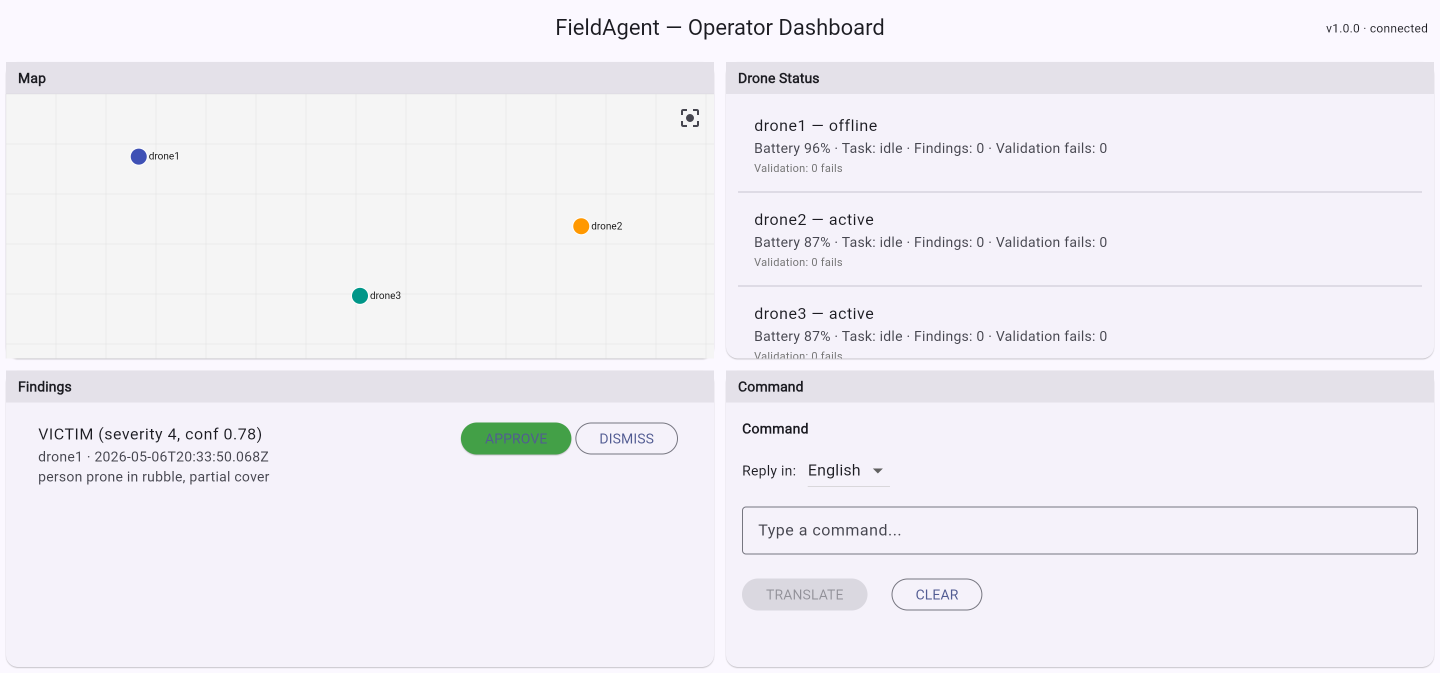
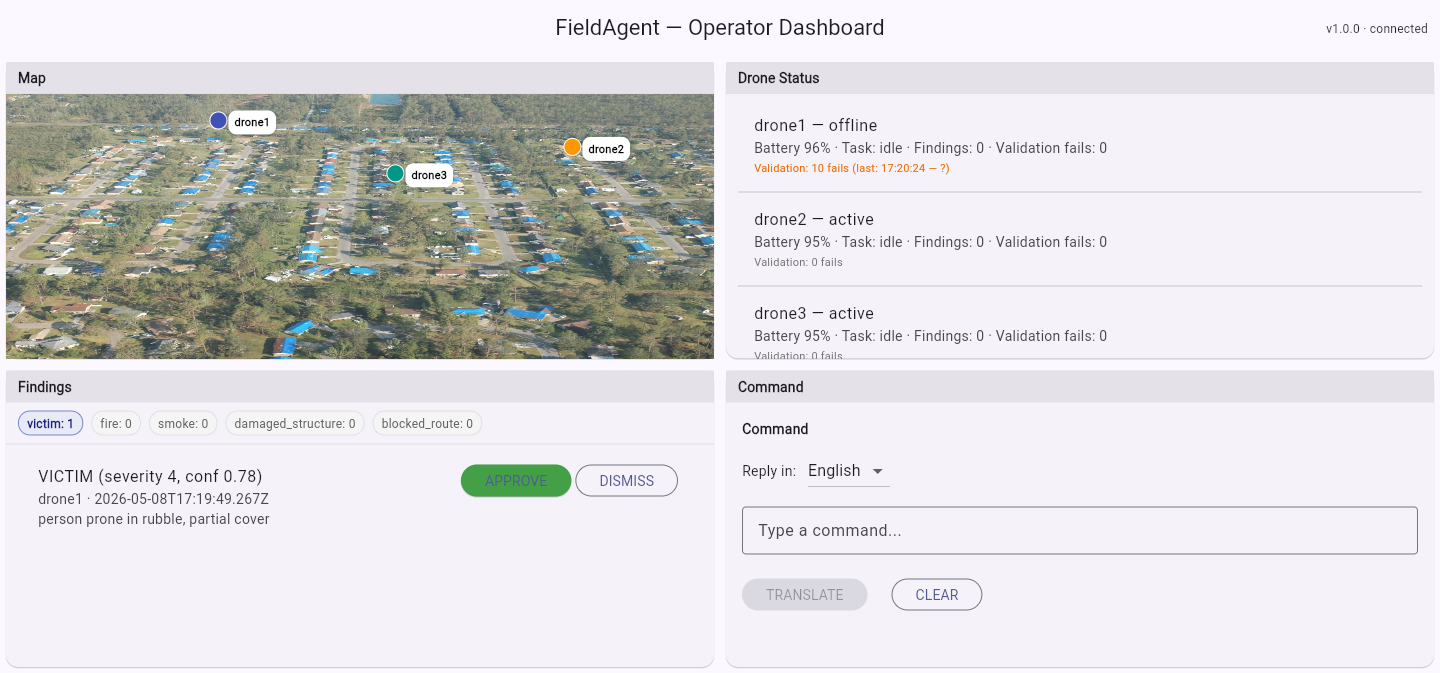
docs(assets): re-capture demo screenshots with aerial overlay (PR #36 follow-up)
Per docs/plans/2026-05-08-demo-recapture.md (eng-reviewed). All three
captures driven via Playwright MCP per the existing runbook and verified
with the new programmatic PIL stddev guard.

- dashboard-egs-severed.png: 1440x673, max stddev 45.5 (was 2880x1800
  retina drift; standardized to match the trio).
- dashboard-egs-state-counts.png: 1440x673, max stddev 38.3.
- dashboard-finding-rendered.png: 1440x673, max stddev 41.6 — three
  drone markers visible on aerial with white-pill ID labels, victim
  finding tile rendered with severity 4 / conf 0.78.

scripts/verify_demo_screenshot.py is the eng-review-prescribed guard
against silent grid-only fallback (map_panel's errorBuilder fires on
aerial 404, indistinguishable from eyeball). Default region calibrated
to the LEFT-side map panel of the 1440x673 layout; default threshold 28
sits ~5pts below the with-aerial floor and well above the no-aerial
baseline.

diff --git a/scripts/verify_demo_screenshot.py b/scripts/verify_demo_screenshot.py
@@ -1,0 +1,129 @@
+"""Programmatic check that a captured dashboard PNG actually has the
+FEMA aerial rendered in the map panel (vs falling back to grid-only).
+
+Why this exists: the Flutter map_panel's Image.asset has an errorBuilder
+that falls back to a grid-only painter when the aerial 404s. To a human
+eyeballing a thumbnail, that fallback is indistinguishable from "aerial
+loaded but is dark imagery." Captures that committed silently-broken
+PNGs to docs_assets/ would survive eyeball QA. So we crop the map
+region and check pixel variance — the aerial is photographic (high
+stddev across channels), the grid fallback is near-uniform dark.
+
+Usage:
+  uv run python scripts/verify_demo_screenshot.py \\
+    --png docs_assets/dashboard-finding-rendered.png \\
+    --map-region 760,80,660,480 \\
+    --min-stddev 28
+
+Exit 0 = aerial pixels look photographic.
+Exit 1 = looks like grid-only fallback (or threshold not met).
+
+Calibration (measured 2026-05-08 on the 1440x673 dashboard layout, with
+the map panel on the LEFT side at roughly x=20..710, y=70..370):
+- FEMA aerial standalone: stddev ~42-48 per channel.
+- Real captures with aerial rendered at 0.80 opacity (region 30,100,650,260):
+  Beat 4 severed: stddev 39-46 / Beat 3 counts: stddev 33-38.
+- Default --min-stddev 28 sits below the with-aerial floor by ~5pts and
+  well above the expected no-aerial baseline (~12-20 at this region);
+  if a real capture lands below 28, that is signal the aerial didn't load.
+If the layout changes, re-measure on a known-good capture and adjust
+both --map-region and --min-stddev.
+"""
+from __future__ import annotations
+
+import argparse
+import sys
+from pathlib import Path
+
+from PIL import Image, ImageStat
+
+
+def _parse_region(s: str) -> tuple[int, int, int, int]:
+    parts = s.split(",")
+    if len(parts) != 4:
+        raise argparse.ArgumentTypeError(
+            f"--map-region must be x,y,w,h (got {s!r})"
+        )
+    try:
+        x, y, w, h = (int(p.strip()) for p in parts)
+    except ValueError:
+        raise argparse.ArgumentTypeError(
+            f"--map-region values must be integers (got {s!r})"
+        )
+    if w <= 0 or h <= 0:
+        raise argparse.ArgumentTypeError(
+            f"--map-region width/height must be positive (got w={w}, h={h})"
+        )
+    return x, y, w, h
+
+
+def main() -> int:
+    parser = argparse.ArgumentParser(description=__doc__.split("\n\n")[0])
+    parser.add_argument("--png", type=Path, required=True, help="Path to captured dashboard PNG")
+    parser.add_argument(
+        "--map-region",
+        type=_parse_region,
+        default=(30, 100, 650, 260),
+        help="Crop box as x,y,w,h. Default: 30,100,650,260 — covers the "
+        "map panel area on the LEFT side of the 1440x673 dashboard. "
+        "(The dashboard layout has Map+Findings stacked on the left, "
+        "Drone Status+Command on the right — sampling the right side will "
+        "miss the aerial entirely.)",
+    )
+    parser.add_argument(
+        "--min-stddev",
+        type=float,
+        default=28.0,
+        help="Minimum per-channel stddev to count as photographic (default: 28.0; "
+        "see module docstring for calibration notes)",
+    )
+    args = parser.parse_args()
+
+    if not args.png.exists():
+        print(f"FAIL: {args.png} does not exist", file=sys.stderr)
+        return 2
+
+    with Image.open(args.png) as im:
+        # Map panel content lives in RGB. Some captures may be RGBA.
+        if im.mode not in ("RGB", "RGBA"):
+            im = im.convert("RGB")
+        x, y, w, h = args.map_region
+        if x + w > im.width or y + h > im.height:
+            print(
+                f"FAIL: --map-region {x},{y},{w},{h} extends past image "
+                f"bounds {im.width}x{im.height}",
+                file=sys.stderr,
+            )
+            return 2
+        crop = im.crop((x, y, x + w, y + h))
+        if crop.mode == "RGBA":
+            crop = crop.convert("RGB")
+        stats = ImageStat.Stat(crop)
+        # stats.stddev is per-channel: [R, G, B]
+        stddevs = stats.stddev
+
+    rounded = [round(s, 2) for s in stddevs]
+    max_stddev = max(stddevs)
+
+    print(f"png:        {args.png}")
+    print(f"region:     x={x} y={y} w={w} h={h}")
+    print(f"image dims: {im.width}x{im.height}")
+    print(f"stddev RGB: {rounded}  (max={round(max_stddev, 2)})")
+    print(f"threshold:  >= {args.min_stddev}")
+
+    if max_stddev < args.min_stddev:
+        print(
+            f"FAIL: max channel stddev {round(max_stddev, 2)} < {args.min_stddev}. "
+            f"Map region looks uniform — likely grid-only fallback (aerial 404'd or "
+            f"errorBuilder fired). Check Playwright console for asset errors before "
+            f"committing this PNG.",
+            file=sys.stderr,
+        )
+        return 1
+
+    print("OK: map region has photographic variance — aerial is rendered.")
+    return 0
+
+
+if __name__ == "__main__":
+    sys.exit(main())

diff --git a/docs/STATUS.md b/docs/STATUS.md
@@ -45,6 +45,8 @@ Living snapshot of where each person stands against the plan. Updated at standup
 
 **Done (Task 8 of fixtures-swap plan, 2026-05-08, PR #36):** Static aerial wired into `frontend/flutter_dashboard/lib/widgets/map_panel.dart` per locked design decisions D1/D2/D3. 3-layer Stack (procedural grid fallback ← `AnimatedOpacity` aerial overlay at 0.80 ← markers); bbox locks to `scenario.base_image_extents`; off-extents drones render as edge chevrons with tap-toast distance/cardinal; drone-id labels moved into white pills (a11y-discoverable); touch targets bumped to 48px (iOS minimum). Plumbing: `Scenario.base_image_path` + `BaseImageExtents` Pydantic types, `egs_state` schema gains optional `base_image_path` + `base_image_extents`, `MissionState.baseImagePath`/`baseImageExtents` getters, `_resolveAssetPath` translates the wire-format sim path to the Flutter asset bundle path at the rendering boundary, `scripts/sync_flutter_base_images.py` + lockdown tests for both `sim/fixtures/base_images/` provenance and sim↔Flutter byte equality. 32 new tests across Python (sim/agents/scripts) + Flutter widget layer; full suite 683 Python + 100 Flutter green, `flutter analyze` clean. `TODOS.md` "Static aerial base image for map panel" CLOSED.
 
+**Done (demo recapture, 2026-05-08, post-PR #36):** Re-captured all three committed demo screenshots so they reflect the as-shipped aerial overlay (`docs_assets/dashboard-finding-rendered.png`, `dashboard-egs-state-counts.png`, `dashboard-egs-severed.png`). All three normalized to **1440×673** (was: severed at 2880×1800 retina drift). Added `scripts/verify_demo_screenshot.py` — programmatic PIL stddev guard against silent grid-only fallback (errorBuilder fires on aerial 404, indistinguishable to eye). Plan + /plan-eng-review at `docs/plans/2026-05-08-demo-recapture.md`. Captures driven via Playwright MCP per `docs/runbooks/mcp-dom-verification.md`; verifier passes all three (max stddev 38–45 against threshold 28).
+
 **Blocked:** findings approval flow polish (depends on Qasim's `egs.operator_actions` subscriber).
 
 ### Thayyil — Simulation Co-Pilot (paired with Hazim)